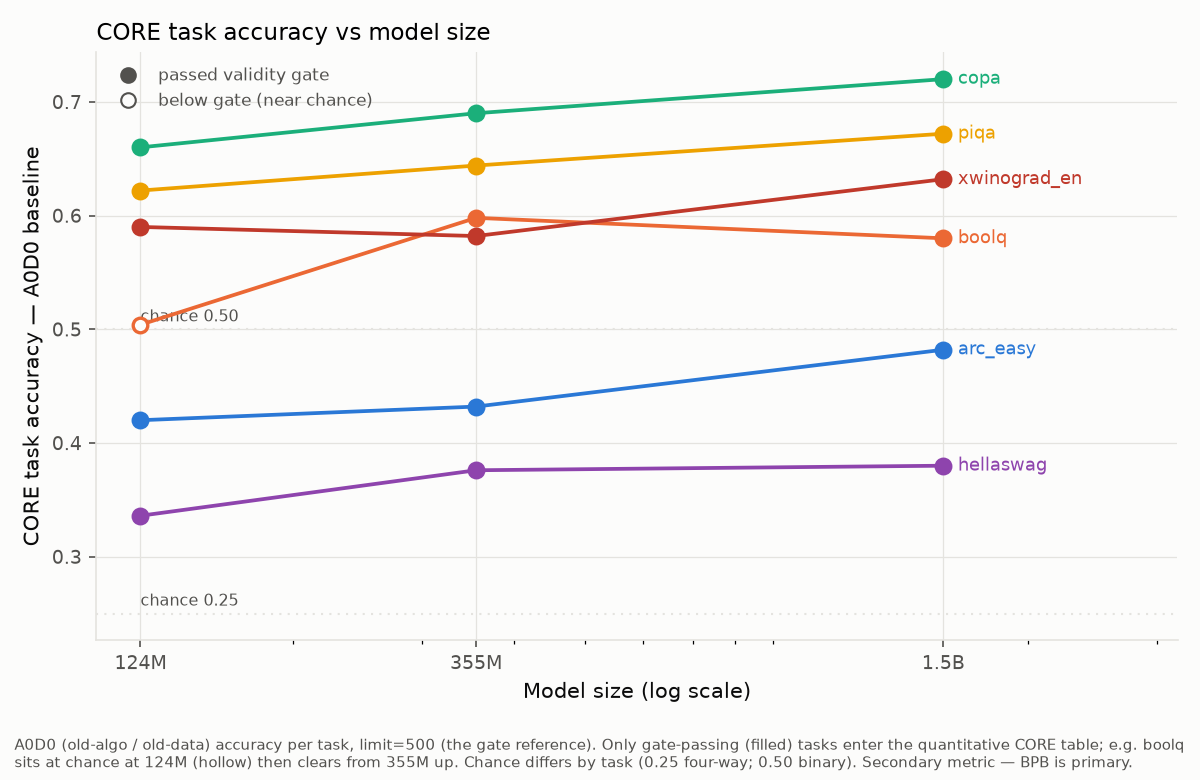
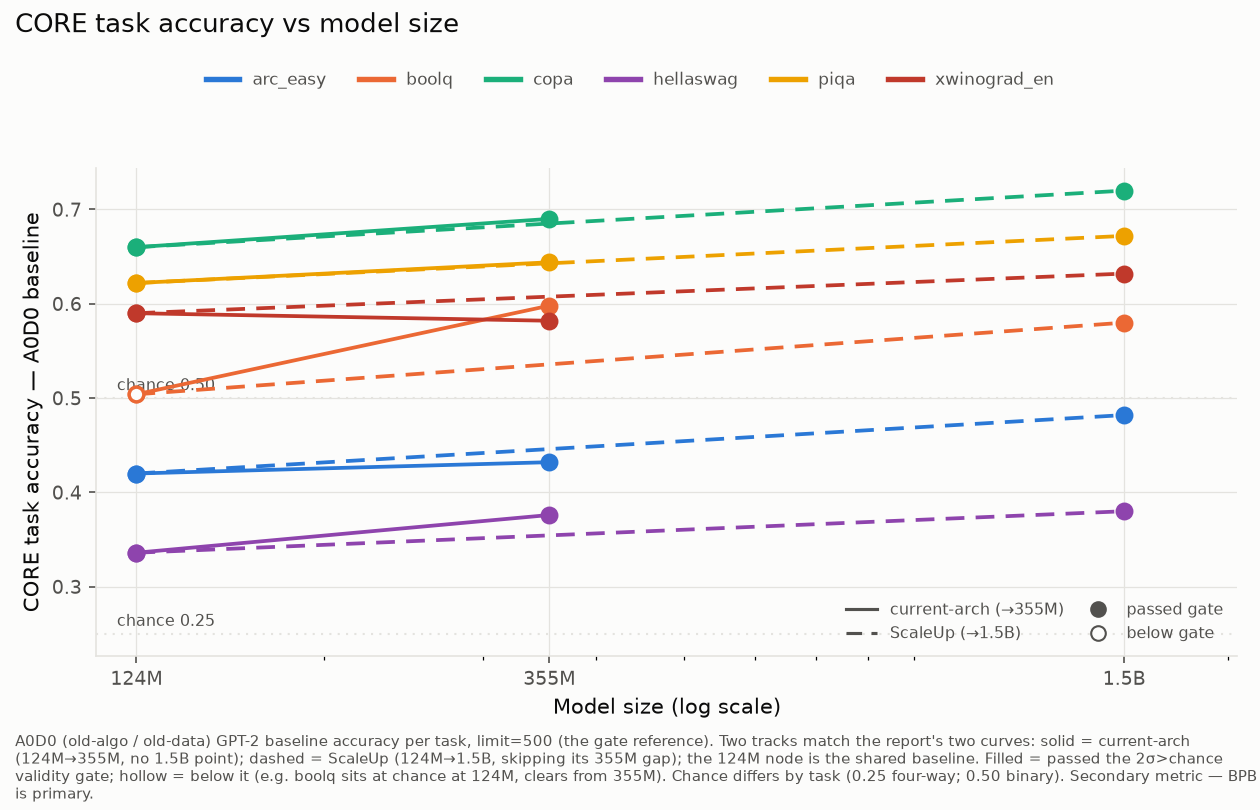
fix core_vs_scale: split into two tracks (current-arch solid 124M->355M, ScaleUp dashed 124M->1.5B) instead of a track-mixing splice; add ScaleUp-124M node; replace colliding end-labels with legends

diff --git a/analysis/plots.py b/analysis/plots.py
@@ -305,59 +305,76 @@ TASK_COLORS = {
 
 
 def core_vs_scale(root: Path, out_path):
-    """CORE task accuracy vs model size, one line per gate-usable task.
+    """CORE task accuracy vs model size — TWO tracks, matching the report's two
+    curves and their disclosed gaps (never one spliced line).
 
-    Plots the A0D0 (old-algo/old-data) baseline accuracy at each size — the gate
-    reference. Filled marker = the task passed the 2σ>chance validity gate at
-    that size; hollow = below the gate (near chance). Visualizes findings like
-    'boolq comes alive at 355M+' that were previously only in the text table.
-    Accuracy is a different unit from BPB, so this stays its own figure.
+    Plots the A0D0 (old-algo/old-data) GPT-2 baseline accuracy — the gate
+    reference — per usable task, split by track:
+      * current-arch: 124M -> 355M (solid; this curve has no validated 1.5B).
+      * ScaleUp:      124M -> 1.5B (dashed; skips 355M, its disclosed gap).
+    The 124M A0 CORE is the SAME shared GPT-2 baseline for both tracks, so they
+    share that node (no false 355M->1.5B splice across tracks). Filled marker =
+    passed the 2σ>chance validity gate at that size; hollow = below it. Accuracy
+    is a different unit from BPB, so this stays its own figure.
     """
     from matplotlib.lines import Line2D
     g = json.loads((root / "core_gate_v2.json").read_text())
-    sizes = [("124M", 124), ("355M", 355), ("1.5B", 1536)]
-    xs = [x for _, x in sizes]
-    tasks = sorted(set(t for s, _ in sizes for t in g[s]["usable_tasks"]))
-    fig, ax = plt.subplots(figsize=(8.0, 5.2), dpi=150)
+    tracks = [("current-arch", "-", [("124M", 124), ("355M", 355)]),
+              ("ScaleUp", (0, (5, 3)), [("ScaleUp-124M", 124), ("1.5B", 1536)])]
+    tasks = sorted(set(t for sc in ("124M", "355M", "1.5B", "ScaleUp-124M")
+                       for t in g[sc]["usable_tasks"]))
+
+    def pt(scale, task):
+        ga = g[scale]["gate"].get(task, {})
+        return ga.get("a0d0_acc"), bool(ga.get("usable"))
+
+    fig, ax = plt.subplots(figsize=(8.4, 5.4), dpi=150)
     for ch in (0.25, 0.50):
         ax.axhline(ch, color=GRID, linewidth=1, linestyle=(0, (1, 3)), zorder=1)
-        ax.annotate(f"chance {ch:.2f}", xy=(xs[0], ch), xytext=(0, 2),
+        ax.annotate(f"chance {ch:.2f}", xy=(118, ch), xytext=(0, 2),
                     textcoords="offset points", fontsize=7.5, color=INK2,
                     va="bottom")
-    for t in tasks:
-        col = TASK_COLORS.get(t, INK2)
-        ys = [g[s]["gate"].get(t, {}).get("a0d0_acc") for s, _ in sizes]
-        use = [bool(g[s]["gate"].get(t, {}).get("usable")) for s, _ in sizes]
-        ax.plot(xs, ys, color=col, linewidth=1.8, zorder=3)
-        for x, y, u in zip(xs, ys, use):
-            ax.plot(x, y, marker="o", markersize=7, color=col, zorder=4,
-                    markerfacecolor=(col if u else SURFACE),
-                    markeredgecolor=col, markeredgewidth=1.6)
-        ax.annotate(t, xy=(xs[-1], ys[-1]), xytext=(7, 0),
-                    textcoords="offset points", fontsize=8.5, color=col,
-                    va="center")
+    for task in tasks:
+        col = TASK_COLORS.get(task, INK2)
+        for _, ls, nodes in tracks:
+            pts = [pt(s, task) for s, _ in nodes]
+            ax.plot([x for _, x in nodes], [p[0] for p in pts], color=col,
+                    linewidth=1.8, linestyle=ls, zorder=3)
+            for (_, x), (y, u) in zip(nodes, pts):
+                ax.plot(x, y, marker="o", markersize=7, color=col, zorder=4,
+                        markerfacecolor=(col if u else SURFACE),
+                        markeredgecolor=col, markeredgewidth=1.6)
     ax.set_xscale("log")
-    ax.set_xticks(xs); ax.set_xticklabels([s for s, _ in sizes])
-    ax.set_xlim(108, 3200)
-    ax.set_xlabel("Model size (log scale)")
+    ax.set_xticks([124, 355, 1536]); ax.set_xticklabels(["124M", "355M", "1.5B"])
+    ax.set_xlim(112, 2050)
     ax.set_ylabel("CORE task accuracy — A0D0 baseline")
-    ax.set_title("CORE task accuracy vs model size", fontsize=11, loc="left")
+    ax.set_xlabel("Model size (log scale)")
     _style(ax)
-    legend = [Line2D([], [], color=INK2, marker="o", linestyle="none",
-                     markersize=7, label="passed validity gate"),
-              Line2D([], [], color=INK2, marker="o", linestyle="none",
-                     markersize=7, markerfacecolor=SURFACE,
-                     markeredgecolor=INK2, label="below gate (near chance)")]
-    ax.legend(handles=legend, frameon=False, fontsize=8, labelcolor=INK2,
-              loc="upper left")
-    fig.text(0.012, 0.01,
-             "A0D0 (old-algo / old-data) accuracy per task, limit=500 (the gate "
-             "reference). Only gate-passing (filled) tasks enter the quantitative "
-             "CORE table; e.g. boolq sits at chance at 124M (hollow) then clears "
-             "from 355M up. Chance differs by task (0.25 four-way; 0.50 binary). "
+    enc = [Line2D([], [], color=INK2, linestyle="-", label="current-arch (→355M)"),
+           Line2D([], [], color=INK2, linestyle=(0, (5, 3)), label="ScaleUp (→1.5B)"),
+           Line2D([], [], color=INK2, marker="o", linestyle="none", markersize=7,
+                  label="passed gate"),
+           Line2D([], [], color=INK2, marker="o", linestyle="none", markersize=7,
+                  markerfacecolor=SURFACE, markeredgecolor=INK2, label="below gate")]
+    ax.legend(handles=enc, frameon=False, fontsize=7.5, labelcolor=INK2,
+              loc="lower right", ncol=2, columnspacing=1.2)
+    tasklg = [Line2D([], [], color=TASK_COLORS[t], linewidth=2.6, label=t)
+              for t in tasks]
+    fig.legend(handles=tasklg, frameon=False, fontsize=8, labelcolor=INK2,
+               loc="upper center", ncol=6, bbox_to_anchor=(0.5, 0.93))
+    fig.suptitle("CORE task accuracy vs model size", fontsize=12.5, x=0.012,
+                 ha="left", color=INK, y=0.985)
+    fig.text(0.012, 0.008,
+             "A0D0 (old-algo / old-data) GPT-2 baseline accuracy per task, "
+             "limit=500 (the gate reference). Two tracks match the report's two "
+             "curves: solid = current-arch (124M→355M, no 1.5B point); dashed = "
+             "ScaleUp (124M→1.5B, skipping its 355M gap); the 124M node is the "
+             "shared baseline. Filled = passed the 2σ>chance validity gate; "
+             "hollow = below it (e.g. boolq sits at chance at 124M, clears from "
+             "355M). Chance differs by task (0.25 four-way; 0.50 binary). "
              "Secondary metric — BPB is primary.", fontsize=7.0, color=INK2,
              va="bottom", wrap=True)
-    fig.tight_layout(rect=(0, 0.07, 1, 1))
+    fig.tight_layout(rect=(0, 0.085, 1, 0.88))
     fig.savefig(out_path, facecolor=SURFACE)
     plt.close(fig)
 
